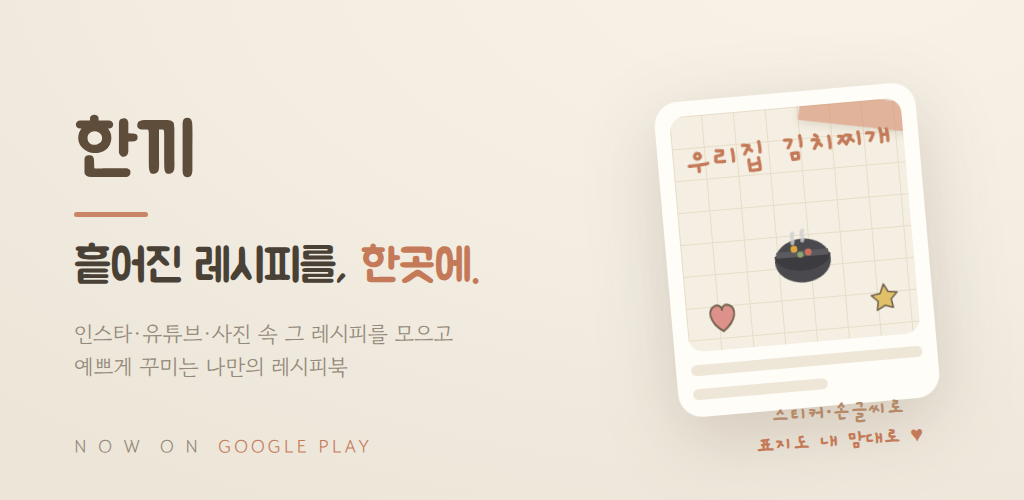
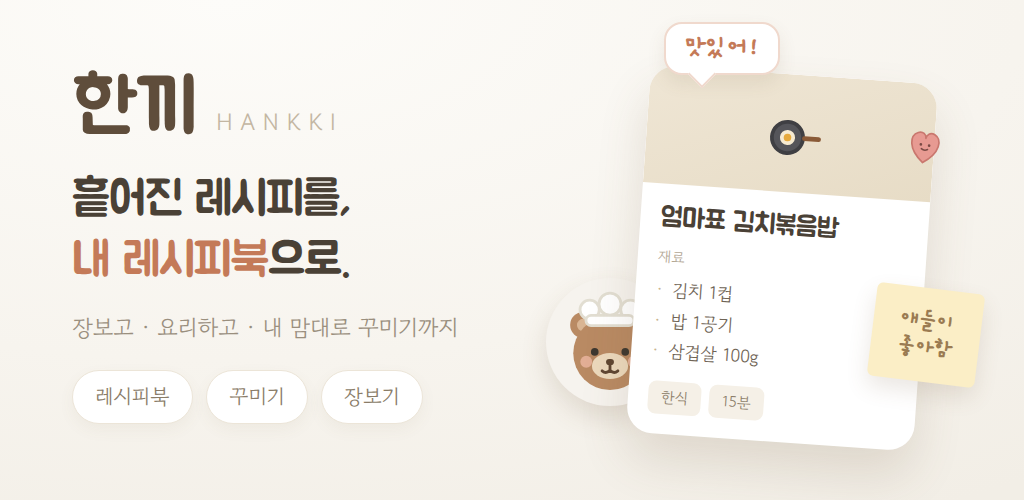
대표 그래픽 개선: 곰곰 셰프+실제 레시피 카드 톤(친근함) + 키워드 수정(냉장고→꾸미기)
Claude-Session: https://claude.ai/code/session_01Hhx7WmfPqapSsbezDHjrDV

diff --git a/hankki/design/promo/templates/feature-1024x500.html b/hankki/design/promo/templates/feature-1024x500.html
@@ -2,57 +2,101 @@
 <link rel="stylesheet" href="../fonts-embed.css">
 <style>
   *{margin:0;padding:0;box-sizing:border-box;-webkit-font-smoothing:antialiased;text-rendering:geometricPrecision}
-  :root{--bg:#f4efe6;--ink:#4a4136;--ink2:#94897a;--clay:#c47a58;--card:#fbf8f1;--line:#e6ded0}
+  :root{--ink:#4a4136;--ink2:#9a8f7e;--clay:#c47a58;--line:#ece5d8}
   body{background:#777}
-  .fg{position:relative;overflow:hidden;width:1024px;height:500px;background:var(--bg);
-    background-image:radial-gradient(120% 130% at 82% -10%, #f8f2e7 0%, #f2ece1 55%, #ece5d8 100%);
-    display:flex;align-items:center;padding:0 74px}
-  .left{position:relative;z-index:3;width:600px}
-  .word{font-family:'Jua';font-size:74px;color:#5f4d3b;letter-spacing:-1px;line-height:1}
-  .rule{width:74px;height:5px;background:var(--clay);border-radius:99px;margin:22px 0 22px;opacity:.9}
-  .hero{font-family:'Jua';font-size:46px;line-height:1.28;color:var(--ink);letter-spacing:-1px}
-  .hero .c{color:var(--clay)}
-  .sub{font-family:'GowunDodum';font-size:22px;color:var(--ink2);margin-top:20px;line-height:1.5;letter-spacing:-.3px}
+  /* 더 하얀·포근한 배경 (어제 느낌) */
+  .fg{position:relative;overflow:hidden;width:1024px;height:500px;
+    background:radial-gradient(130% 120% at 22% 0%, #fdfcf9 0%, #f7f4ee 60%, #f2eee6 100%);
+    display:flex;align-items:center;padding:0 72px}
 
-  /* 오른쪽: 작게 꾸민 레시피 표지 목업 */
-  .cover-wrap{position:absolute;right:96px;top:50%;transform:translateY(-50%) rotate(-5deg);width:262px;
-    filter:drop-shadow(0 22px 36px rgba(90,65,45,.20))}
-  .cover-card{background:#fffdf8;border-radius:24px;padding:15px 15px 17px}
-  .cover{position:relative;height:236px;border-radius:15px;overflow:hidden;background-color:#f4efe2;
-    background-image:linear-gradient(#e7ddc7 1.3px,transparent 1.3px),linear-gradient(90deg,#e7ddc7 1.3px,transparent 1.3px);background-size:32px 32px}
-  .tape{position:absolute;top:-4px;right:-16px;width:118px;height:29px;background:rgba(214,150,120,.68);transform:rotate(11deg);box-shadow:0 3px 8px rgba(70,60,45,.12)}
-  .ttl{position:absolute;top:22px;left:0;right:0;text-align:center;font-family:'Gaegu';font-weight:700;font-size:34px;color:#c47a58;transform:rotate(-3deg)}
-  .pot{position:absolute;left:52%;top:60%;transform:translate(-50%,-50%);width:96px;height:96px}
-  .stk{position:absolute;width:44px;height:44px}
-  .ln{height:11px;background:#eee7d8;border-radius:6px;margin-top:13px}
-  .ln.s{width:58%}
-  .cap{position:absolute;right:70px;bottom:44px;z-index:4;width:230px;text-align:center;transform:rotate(-4deg);
-    font-family:'Gaegu';font-weight:700;font-size:22px;color:#b58a68;line-height:1.3}
-  .cap .c{color:#c47a58}
-  .badge{position:absolute;left:74px;bottom:40px;z-index:3;font-family:'GowunDodum';font-size:18px;letter-spacing:3px;color:var(--ink2)}
-  .badge b{color:var(--clay);font-weight:400}
+  .left{position:relative;z-index:5;width:520px}
+  .word-row{display:flex;align-items:baseline;gap:18px}
+  .word{font-family:'Jua';font-size:76px;color:#5f4d3b;letter-spacing:-1px;line-height:.9}
+  .latin{font-family:'GowunDodum';font-size:24px;letter-spacing:7px;color:#c3b6a2}
+  .hero{font-family:'Jua';font-size:47px;line-height:1.3;color:var(--ink);letter-spacing:-1px;margin-top:26px}
+  .hero .c{color:var(--clay)}
+  .sub{font-family:'GowunDodum';font-size:23px;color:var(--ink2);margin-top:18px;letter-spacing:-.3px}
+  .pills{display:flex;gap:13px;margin-top:26px}
+  .pill{font-family:'GowunDodum';font-size:21px;color:#8a7c68;background:#fff;border:1.5px solid var(--line);
+    border-radius:999px;padding:11px 22px;box-shadow:0 6px 16px rgba(120,95,65,.06)}
+
+  /* 오른쪽: 진짜 레시피 카드 목업 */
+  .stage{position:absolute;right:44px;top:50%;transform:translateY(-50%);width:420px;height:500px}
+  .card{position:absolute;left:78px;top:74px;width:288px;background:#fff;border-radius:26px;z-index:5;
+    box-shadow:0 26px 48px rgba(110,84,58,.16);transform:rotate(4deg);overflow:hidden}
+  .card .photo{height:118px;background:linear-gradient(160deg,#efe6d5,#e7dcc6);display:flex;align-items:center;justify-content:center}
+  .card .photo svg{width:70px;height:70px}
+  .card .body{padding:18px 20px 20px}
+  .card .t{font-family:'Jua';font-size:27px;color:var(--ink);letter-spacing:-.5px}
+  .card .lbl{font-family:'GowunDodum';font-size:15px;color:#b3a794;margin:11px 0 7px}
+  .card .ing{font-family:'GowunDodum';font-size:18px;color:#6f6455;line-height:1.7}
+  .card .ing i{color:#c9b48f;font-style:normal;margin-right:9px}
+  .card .tags{display:flex;gap:8px;margin-top:14px}
+  .card .tag{font-family:'GowunDodum';font-size:15px;color:#8a7c68;background:#f5f0e7;border-radius:8px;padding:6px 13px}
+
+  /* 곰곰 셰프 아바타 — 카드 왼쪽 아래 빼꼼 */
+  .bear{position:absolute;left:-14px;top:278px;width:128px;height:128px;border-radius:50%;
+    background:#f6f3ee;box-shadow:0 12px 26px rgba(110,84,58,.16);z-index:3;overflow:hidden}
+  .bear svg{width:100%;height:100%;transform:scale(1.06)}
+  /* 말풍선 */
+  .bubble{position:absolute;left:104px;top:22px;z-index:7;font-family:'Gaegu';font-weight:700;font-size:26px;color:#c47a58;
+    background:#fff;border:2px solid #f0d9cd;border-radius:18px;padding:8px 18px;box-shadow:0 8px 18px rgba(110,84,58,.10)}
+  .bubble::after{content:'';position:absolute;left:26px;bottom:-11px;width:18px;height:18px;background:#fff;
+    border-right:2px solid #f0d9cd;border-bottom:2px solid #f0d9cd;transform:rotate(45deg)}
+  /* 포스트잇 */
+  .note{position:absolute;right:0px;top:288px;z-index:6;width:108px;height:94px;background:#fbeec6;border-radius:6px;
+    box-shadow:0 10px 22px rgba(110,84,58,.14);transform:rotate(7deg);display:flex;align-items:center;justify-content:center;
+    font-family:'Gaegu';font-weight:700;font-size:22px;color:#9a7b52;text-align:center;line-height:1.25}
+  /* 하트 스티커 (표정) */
+  .heart{position:absolute;right:30px;top:120px;width:50px;height:50px;z-index:6;transform:rotate(8deg)}
 </style></head><body>
 <div class="fg">
   <div class="left">
-    <div class="word">한끼</div>
-    <div class="rule"></div>
-    <div class="hero">흩어진 레시피를, <span class="c">한곳에.</span></div>
-    <div class="sub">인스타·유튜브·사진 속 그 레시피를 모으고<br>예쁘게 꾸미는 나만의 레시피북</div>
+    <div class="word-row"><span class="word">한끼</span><span class="latin">HANKKI</span></div>
+    <div class="hero">흩어진 레시피를,<br><span class="c">내 레시피북</span>으로.</div>
+    <div class="sub">장보고 · 요리하고 · 내 맘대로 꾸미기까지</div>
+    <div class="pills"><span class="pill">레시피북</span><span class="pill">꾸미기</span><span class="pill">장보기</span></div>
   </div>
-  <div class="badge">N O W&nbsp;&nbsp;O N&nbsp;&nbsp;<b>GOOGLE&nbsp;PLAY</b></div>
 
-  <div class="cover-wrap">
-    <div class="cover-card">
-      <div class="cover">
-        <div class="tape"></div>
-        <div class="ttl">우리집 김치찌개</div>
-        <div class="pot"><svg viewBox="0 0 48 48"><ellipse cx="24" cy="30" rx="14" ry="11" fill="#4a4a4e"/><path d="M10 27a14 8 0 0 0 28 0" fill="#3c3c40"/><path d="M11 25h26v3H11z" fill="#5a5a5f"/><circle cx="20" cy="24" r="1.7" fill="#e0a83a"/><circle cx="27" cy="26" r="1.7" fill="#cf6f5a"/><circle cx="23" cy="27" r="1.5" fill="#8ca86e"/><path d="M20 16c-1.5 2 .5 3.2-.5 5M25 15c-1.5 2 .5 3.2-.5 5" stroke="#cfcfcf" stroke-width="2" fill="none" stroke-linecap="round" opacity=".8"/></svg></div>
-        <div class="stk" style="left:14px;bottom:12px"><svg viewBox="0 0 48 48"><path d="M24 41C8 29.5 8.5 16.5 16 13c4.3-2 8 .9 8 4.6 0-3.7 3.7-6.6 8-4.6 7.5 3.5 8 16.5-8 28Z" fill="#dd918a" stroke="#71604b" stroke-width="2" stroke-linejoin="round"/></svg></div>
-        <div class="stk" style="right:14px;bottom:18px;width:38px;height:38px"><svg viewBox="0 0 48 48"><path d="M24 5.5l5.2 10 11.2 1.6-8.1 7.8 1.9 11.1L24 32.6 13.8 38l1.9-11.1L7.6 19l11.2-1.6z" fill="#e0c169" stroke="#71604b" stroke-width="2" stroke-linejoin="round"/></svg></div>
+  <div class="stage">
+    <div class="card">
+      <div class="photo">
+        <svg viewBox="0 0 48 48"><circle cx="22" cy="27" r="12" fill="#3f3f43"/><circle cx="22" cy="27" r="9.4" fill="#55555a"/><circle cx="22" cy="27" r="5.2" fill="#f6ead0"/><circle cx="22" cy="27" r="2.6" fill="#e6a93c"/><rect x="32" y="25.4" width="13" height="3.2" rx="1.6" fill="#8a5a37"/></svg>
       </div>
-      <div class="ln"></div><div class="ln s"></div>
+      <div class="body">
+        <div class="t">엄마표 김치볶음밥</div>
+        <div class="lbl">재료</div>
+        <div class="ing"><i>·</i>김치 1컵<br><i>·</i>밥 1공기<br><i>·</i>삼겹살 100g</div>
+        <div class="tags"><span class="tag">한식</span><span class="tag">15분</span></div>
+      </div>
     </div>
+
+    <div class="bubble">맛있어!</div>
+
+    <div class="bear">
+      <svg viewBox="0 0 48 48">
+        <circle cx="14.5" cy="18" r="4.6" fill="#b98a63"/><circle cx="33.5" cy="18" r="4.6" fill="#b98a63"/>
+        <circle cx="14.5" cy="18" r="2.2" fill="#d9b593"/><circle cx="33.5" cy="18" r="2.2" fill="#d9b593"/>
+        <circle cx="24" cy="28" r="13" fill="#b98a63"/>
+        <ellipse cx="24" cy="32.5" rx="6.4" ry="4.6" fill="#ecd9bd"/>
+        <rect x="22.6" y="30" width="2.8" height="2.2" rx="1.1" fill="#5f4632"/>
+        <path d="M24 32.4v1.6M24 34c-.9.9-2 .9-2.8.2M24 34c.9.9 2 .9 2.8.2" stroke="#5f4632" stroke-width="1" fill="none" stroke-linecap="round"/>
+        <circle cx="18.6" cy="27.5" r="1.35" fill="#3d3830"/><circle cx="29.4" cy="27.5" r="1.35" fill="#3d3830"/>
+        <circle cx="15.6" cy="31" r="2.1" fill="#f0b9a6" opacity="0.75"/><circle cx="32.4" cy="31" r="2.1" fill="#f0b9a6" opacity="0.75"/>
+        <circle cx="16.8" cy="12.6" r="3.4" fill="#fff" stroke="#e2ded2" stroke-width="1"/>
+        <circle cx="24" cy="10.6" r="3.9" fill="#fff" stroke="#e2ded2" stroke-width="1"/>
+        <circle cx="31.2" cy="12.6" r="3.4" fill="#fff" stroke="#e2ded2" stroke-width="1"/>
+        <rect x="15.5" y="14.6" width="17" height="3.6" rx="1.8" fill="#fff" stroke="#e2ded2" stroke-width="1"/>
+        <g transform="rotate(14 39.5 30)">
+          <rect x="38.4" y="28" width="2.2" height="7.6" rx="1.1" fill="#f7f3e4" stroke="#d5cbaa" stroke-width="0.6"/>
+          <path d="M39.5 28.2c-.8-1.9-.8-3.8-.1-5.7M38.8 28.1c-1.4-1.2-2.2-2.8-2.5-4.6M40.2 28.1c1.1-1.4 1.7-3 1.8-4.9" stroke="#7fa05a" stroke-width="1.25" fill="none" stroke-linecap="round"/>
+        </g>
+      </svg>
+    </div>
+
+    <svg class="heart" viewBox="0 0 48 48"><path d="M24 41C8 29.5 8.5 16.5 16 13c4.3-2 8 .9 8 4.6 0-3.7 3.7-6.6 8-4.6 7.5 3.5 8 16.5-8 28Z" fill="#e79a92" stroke="#c9776e" stroke-width="1.6" stroke-linejoin="round"/><circle cx="20" cy="24" r="1.3" fill="#7a4a44"/><circle cx="28" cy="24" r="1.3" fill="#7a4a44"/><path d="M21 28q3 2 6 0" stroke="#7a4a44" stroke-width="1.5" fill="none" stroke-linecap="round"/></svg>
+
+    <div class="note">애들이<br>좋아함</div>
   </div>
-  <div class="cap">스티커·손글씨로<br><span class="c">표지도 내 맘대로 ♥</span></div>
 </div>
 </body></html>
